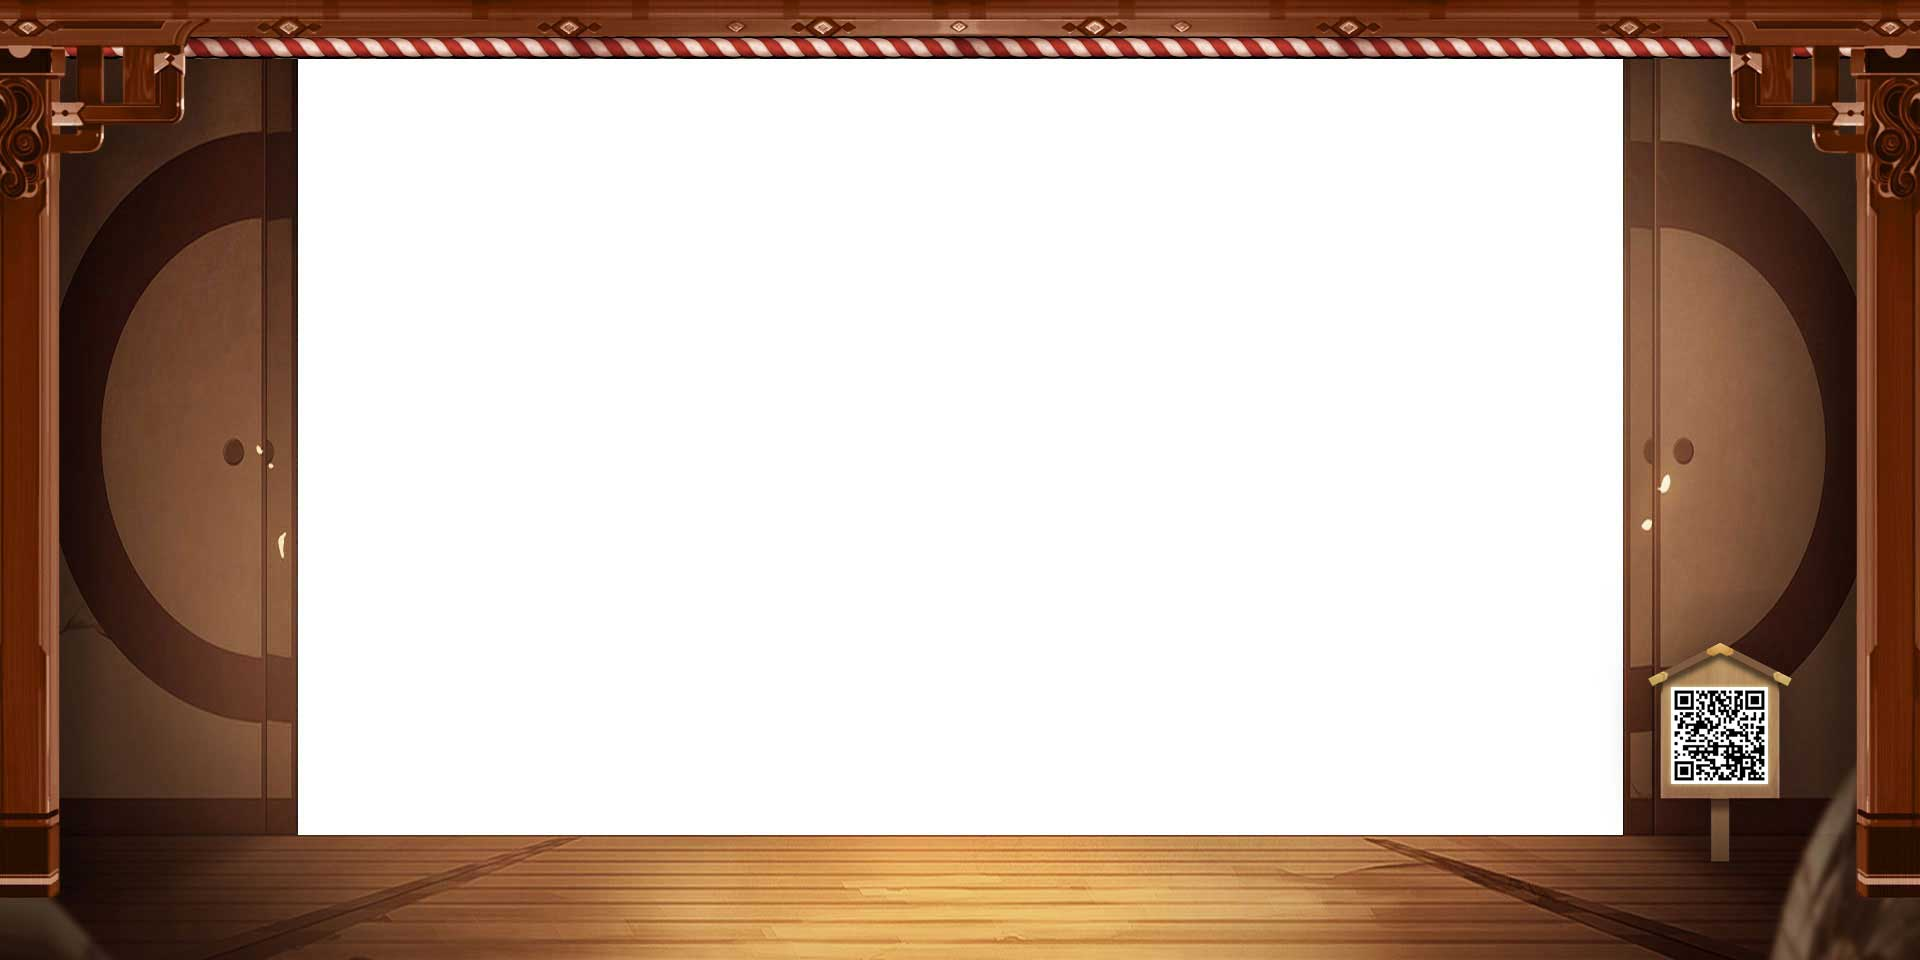
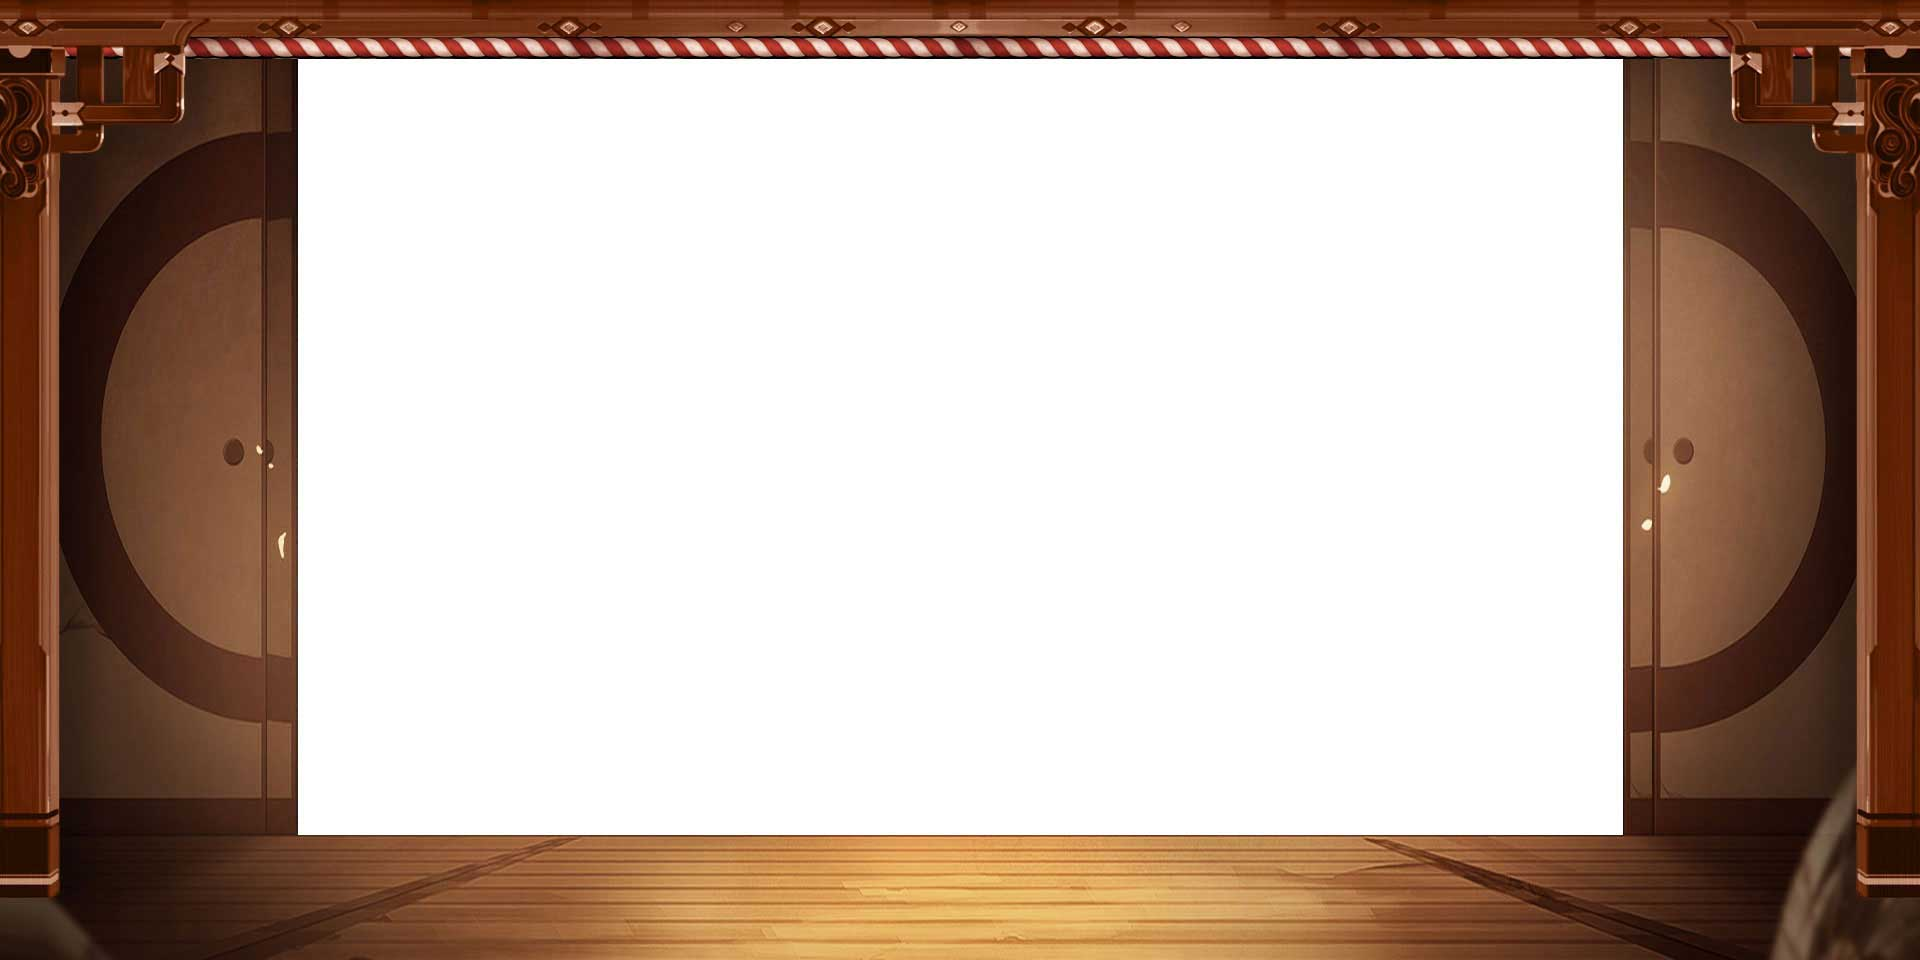
修改

Changed region(s): [[0.8438, 0.6562, 0.9375, 0.9062]]

diff --git a/index.html b/index.html
@@ -60,8 +60,8 @@
                     </div>
                 </div>
                 <div class="first-slogan">
+                    <div class="first-qrcode"></div>
                     <div class="first-play ani"></div>
-
                 </div>
                 <div class="first-download">
                     <div class="box">

diff --git a/css/style.css b/css/style.css
@@ -135,6 +135,14 @@
     bottom: 50px;
     left: 127px;
 }
+.first-qrcode {
+     position: absolute;
+     right: -220px;
+     bottom: -150px;
+     width: 242px;
+     height: 324px;
+     background: url('../images/first-qrcode.png') no-repeat center top;
+}
 
 .first-slogan {
     position: absolute;
